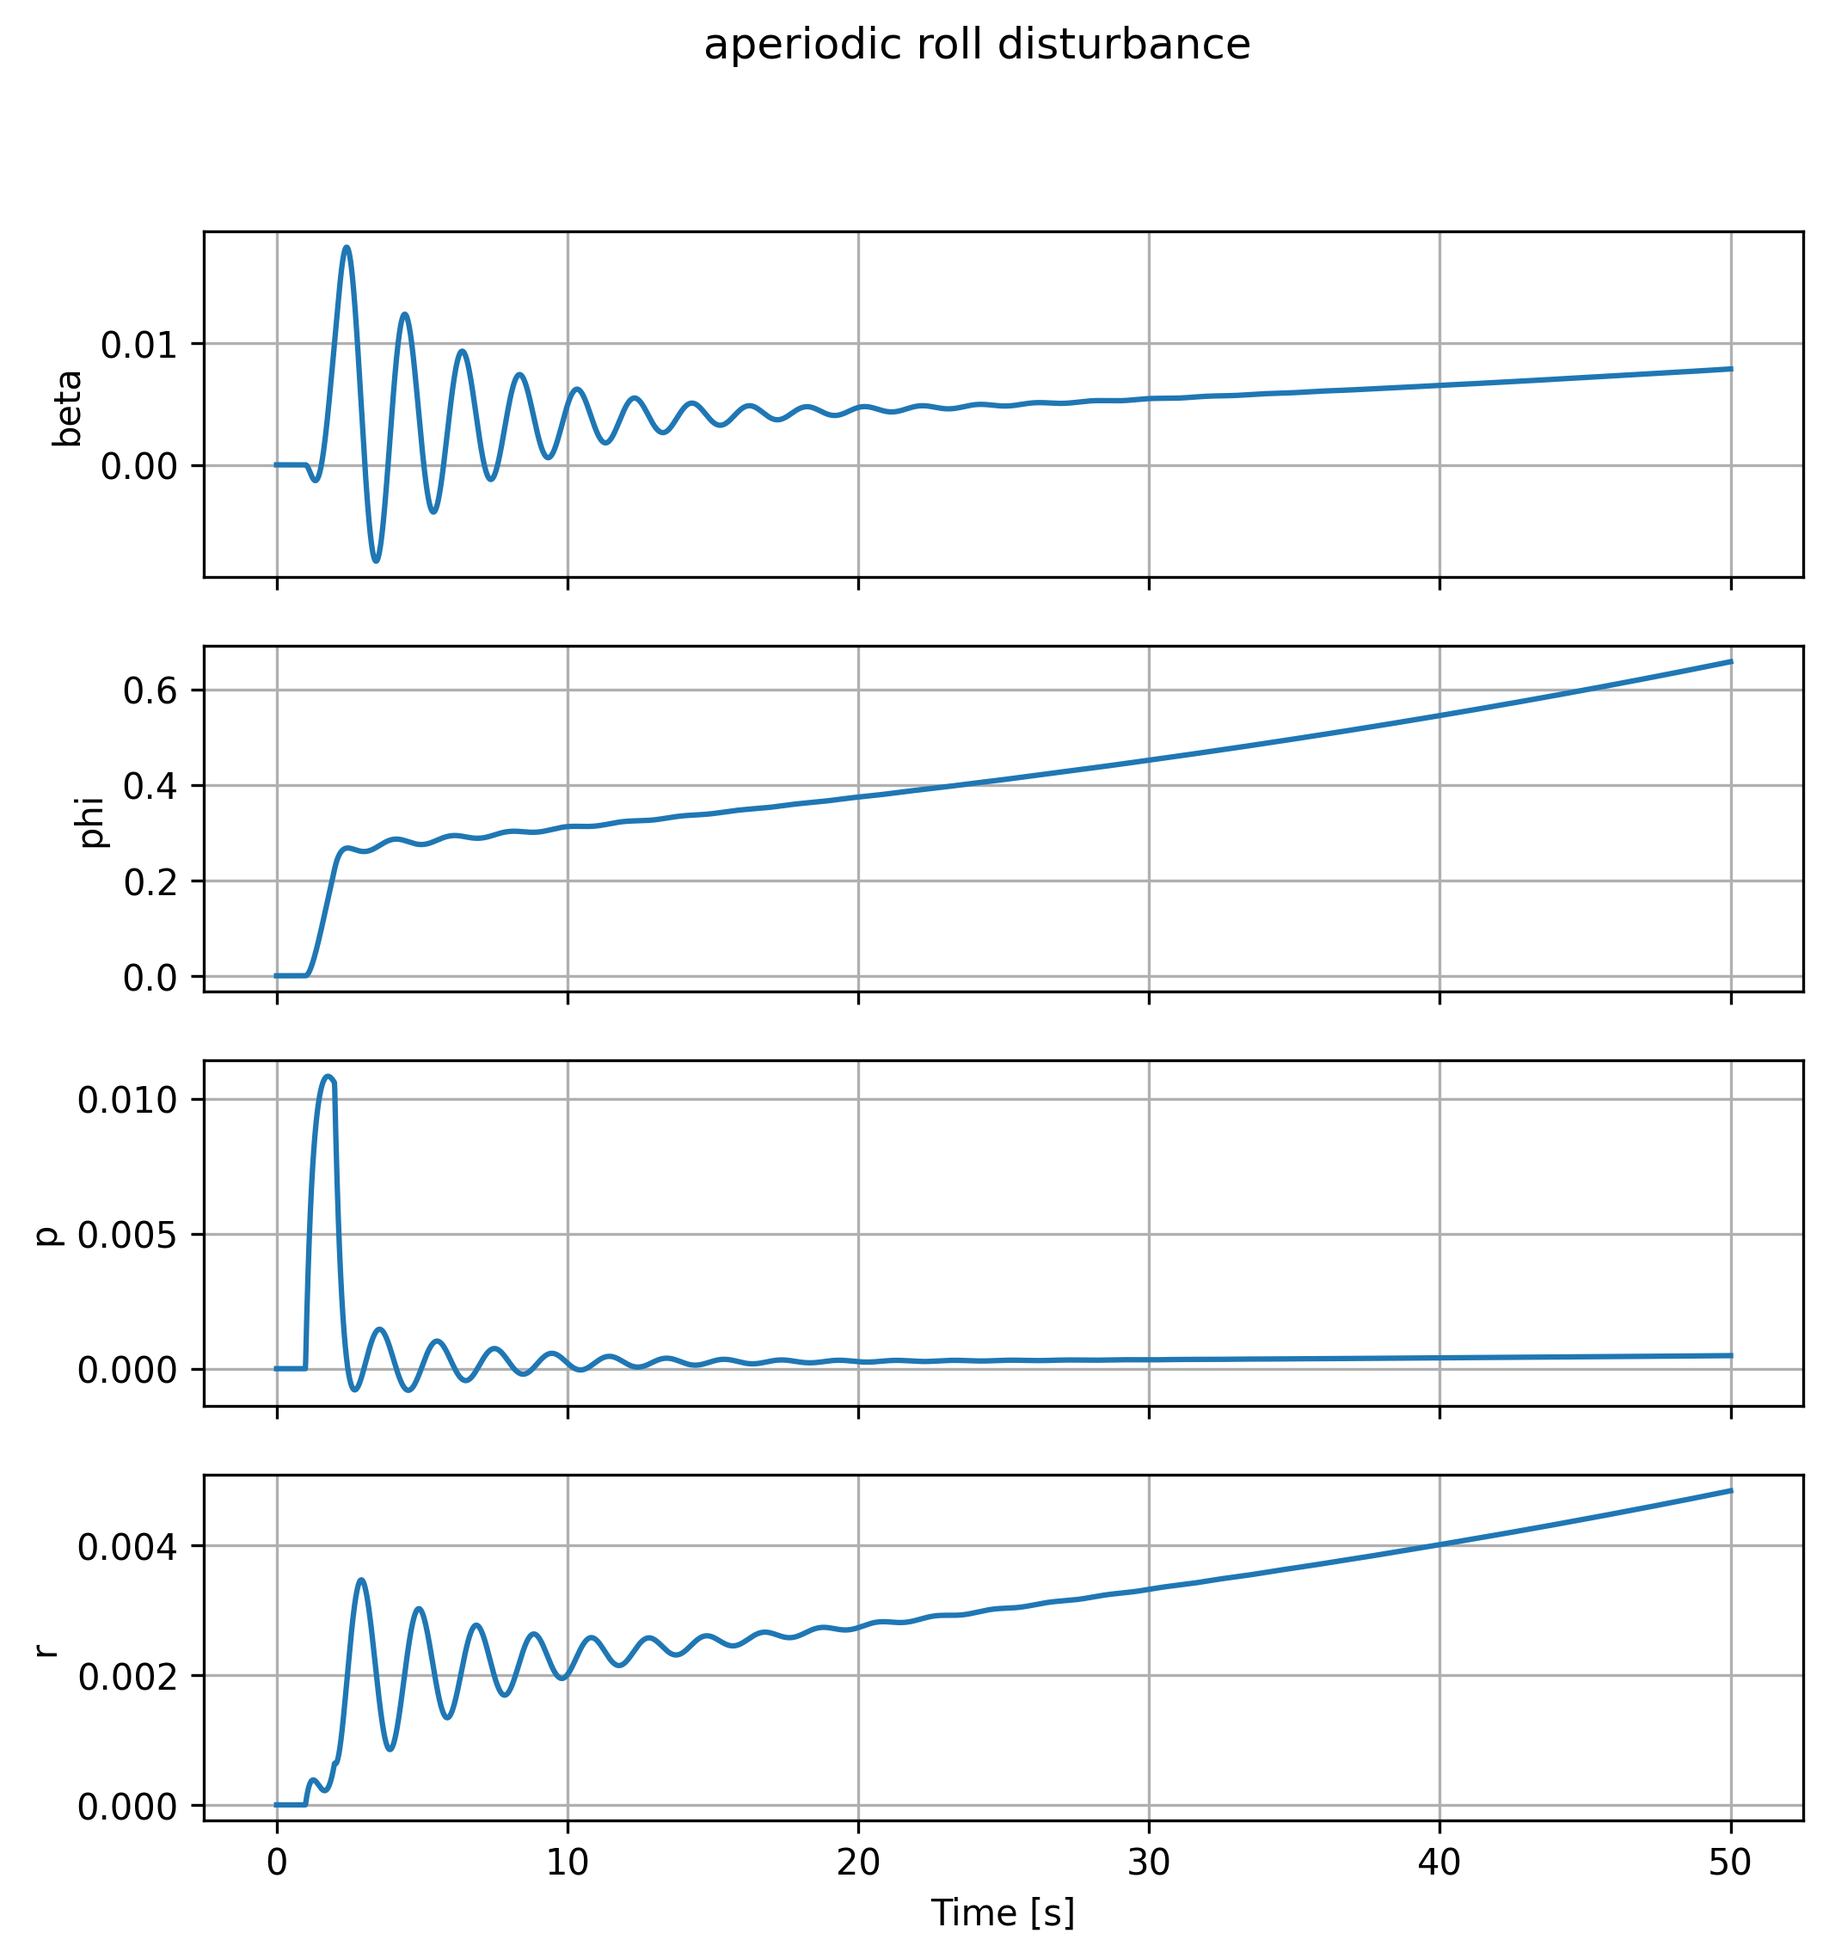
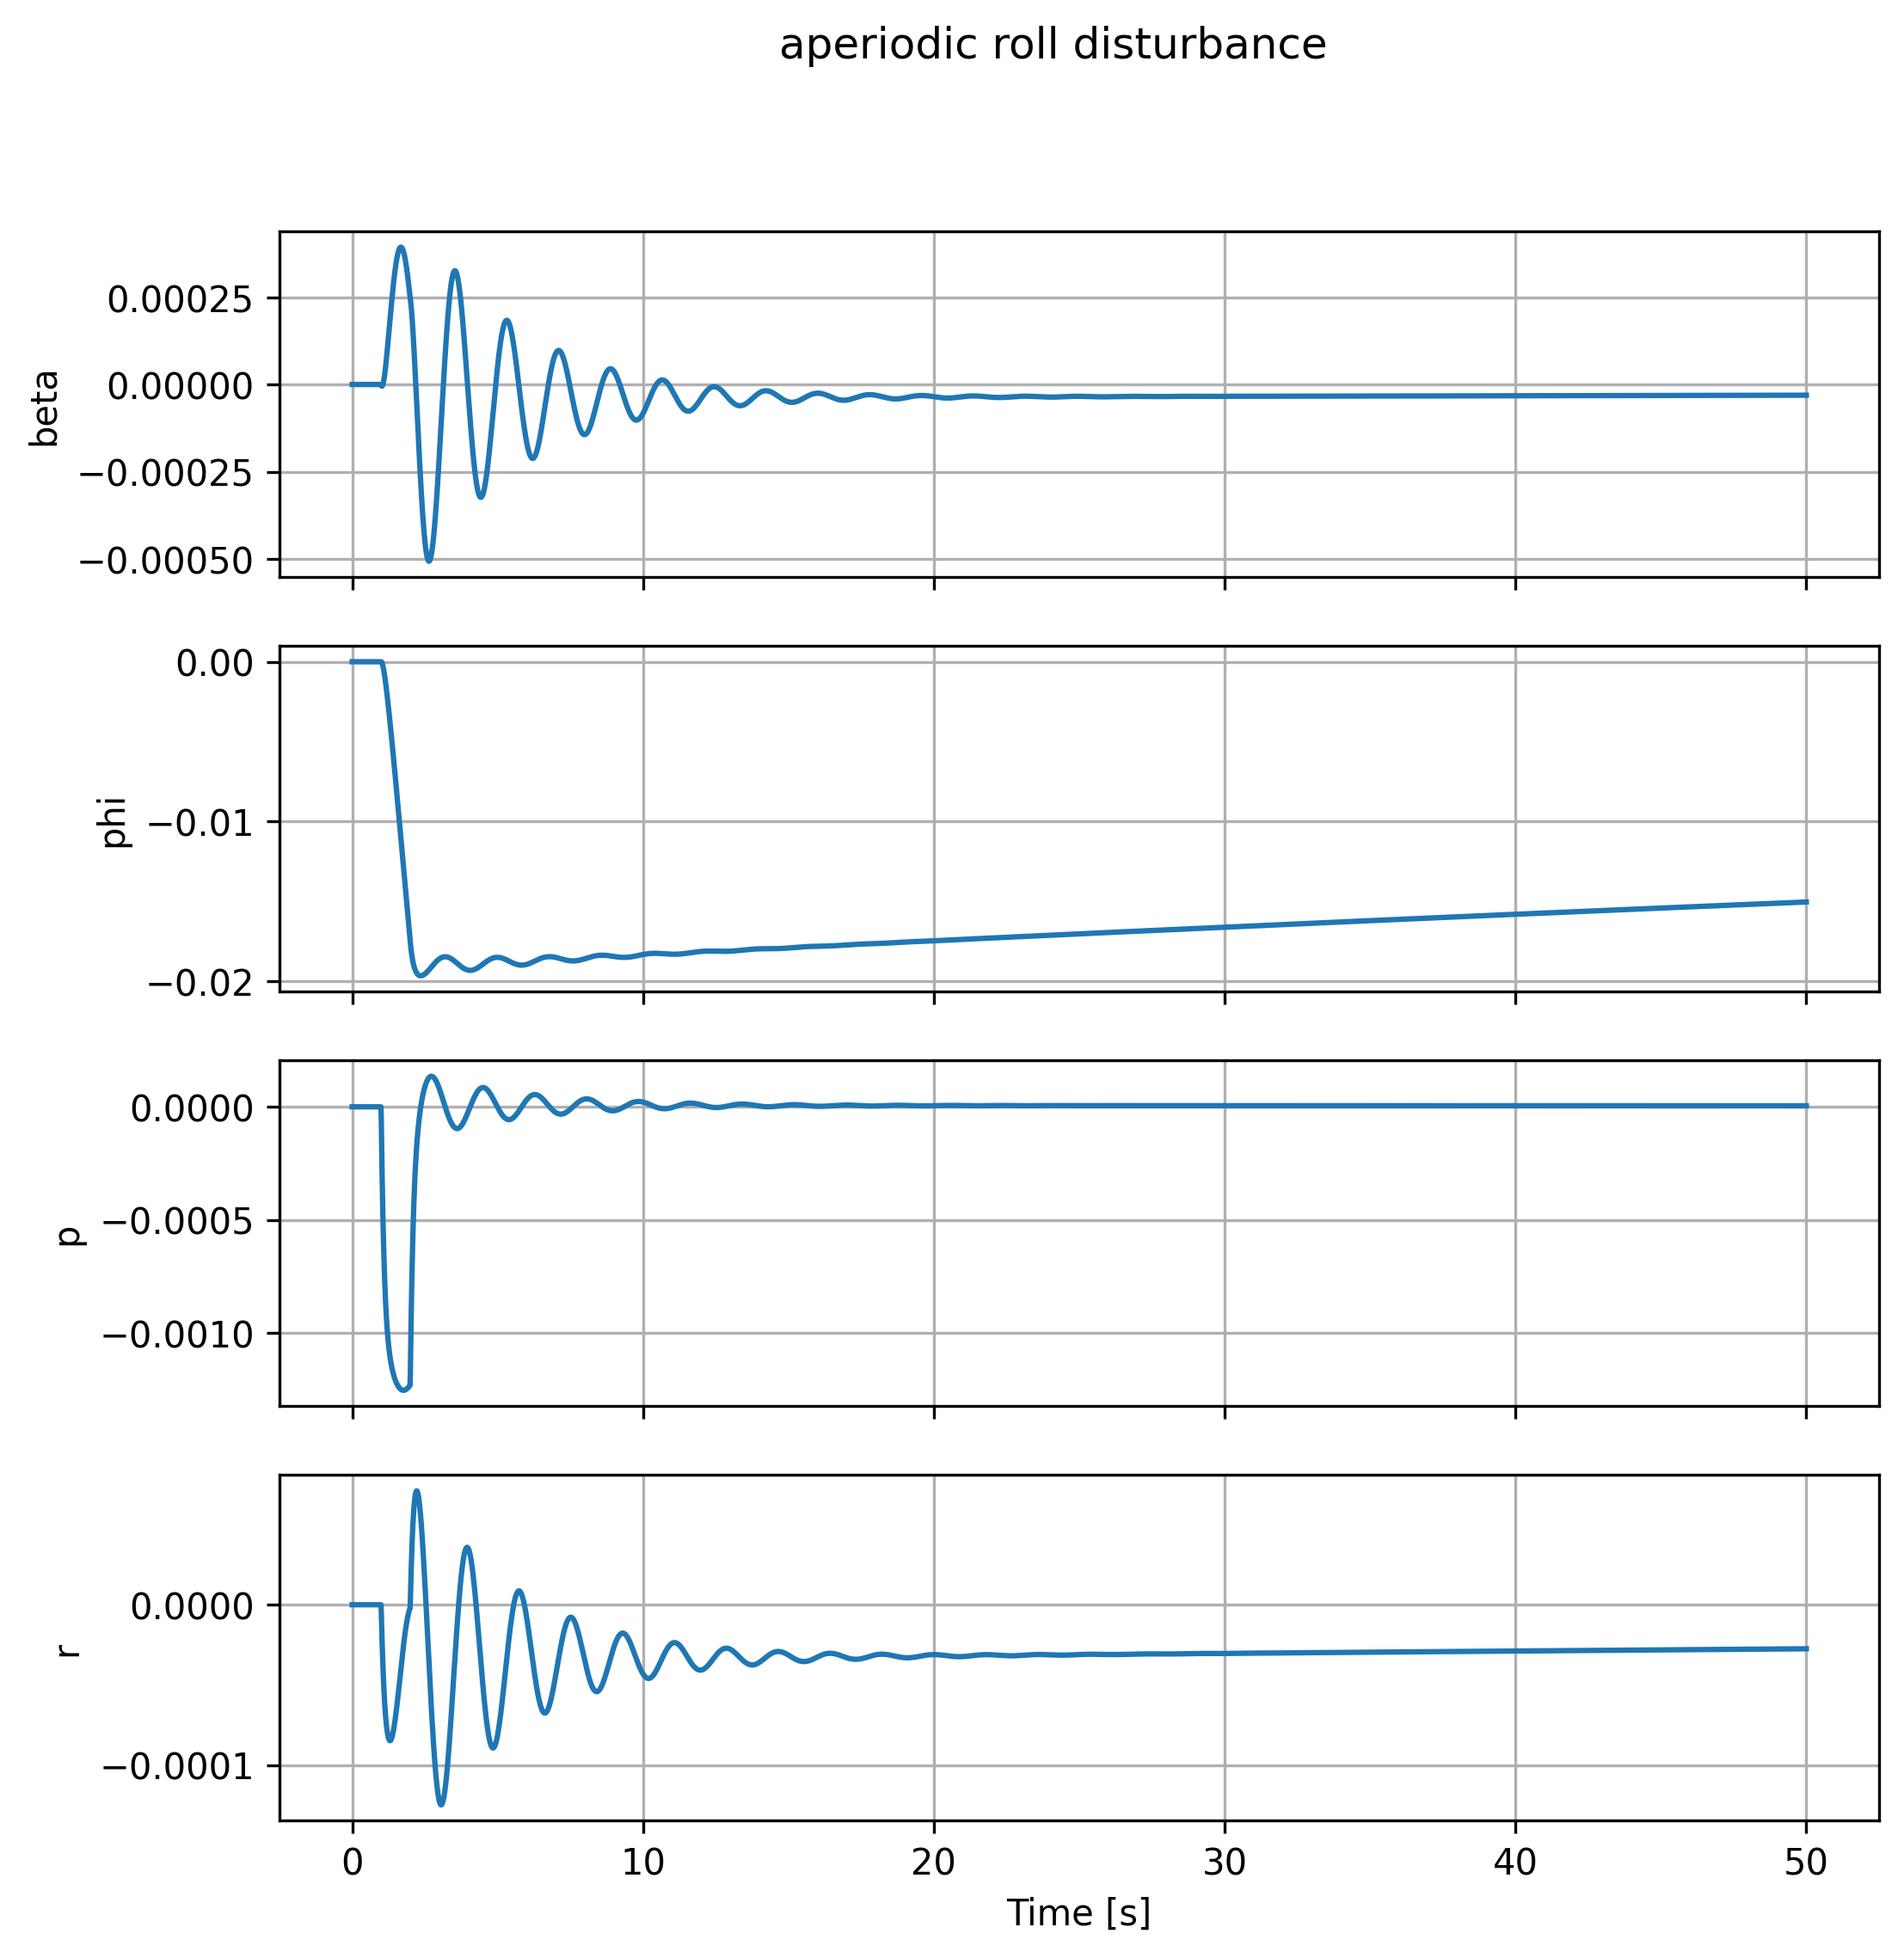
initial stability analysis

diff --git a/c&s/derivatives_parameters.py b/c&s/derivatives_parameters.py
@@ -14,15 +14,15 @@ target_class = Aircraft
 aircraft = loader.load(file_path, target_class)
 
 
-Ixx = 1609.57013  # kg*m2
-Iyy = 8767.774  # kg*m2
-Izz = 8643.30418  # kg*m2
-Ixy = 0  # kg*m2
-Iyz = 0  # kg*m2
-Ixz = 186.6324083  # kg*m2
+Ixx = 10262.381  # kg*m2
+Iyy = 5087.016 # kg*m2
+Izz = 13691.332  # kg*m2
+Ixy = 0.093  # kg*m2
+Iyz = 0.231  # kg*m2
+Ixz = 429.382  # kg*m2
 
 #calculate_aircraft_parameters(1870, 8500, rho[0], 132, 25.65, Ixx, Iyy, Izz, Ixz)
-mtom = 1870 #[kg]
+mtom = 1849.597 #[kg]
 h_cruise = 8500 #[ft]
 V_cruise = 132 #[knots]
 S = 31.4 #m2
@@ -33,7 +33,7 @@ rho = atmos_model.density
 hp0 = h_cruise * FT_TO_M  # Pressure altitude in the stationary flight condition [m]
 V0 = V_cruise * KTS_TO_MS # True airspeed in the stationary flight condition [m/sec]
 C_L_1 = mtom * g * 2 / (rho * V_cruise ** 2 * S)
-alpha0 = 0.965 * np.pi / 180 # Angle of attack in the stationary flight condition [rad]
+alpha0 = 1.5 * np.pi / 180 # Angle of attack in the stationary flight condition [rad]
 th0 = 0  # Pitch angle in the stationary flight condition [rad]
 
 # Aircraft mass
@@ -42,10 +42,10 @@ m = mtom  # Mass [kg]
 # Aerodynamic properties
 e = 0.783  # Oswald factor [ ]
 CD0 = 0.02591  # Zero-lift drag coefficient [ ]
-CLa = 5.76  # Slope of C_L-alpha curve [ ]
+CLa = 5.27  # Slope of C_L-alpha curve [ ]
 
 # Longitudinal stability
-Cma = -1.87  # Longitudinal stability [ ]
+Cma = -1.01  # Longitudinal stability [ ]
 Cmde = 3.646  # Elevator effectiveness [ ]
 
 # Aircraft geometry
@@ -56,7 +56,7 @@ lh = 4.96  # Tail length [m]
 c = 1.87 # Mean aerodynamic cord [m]
 lh_c = lh / c  # [ ]
 b = 16.8  # Wing span [m]
-bh = 4.85  # Stabiliser span [m]
+bh = 6.34  # Stabiliser span [m]
 A = b ** 2 / S  # Wing aspect ratio [ ]
 Ah = bh ** 2 / Sh  # Stabiliser aspect ratio [ ]
 # Vh_V = 1  # [ ]
@@ -84,45 +84,45 @@ CD = CD0 + (CLa * alpha0) ** 2 / (np.pi * A * e)  # Drag coefficient [ ]
 
 # Stability derivatives
 
-CX0 = mtom * np.sin(th0) / (0.5 * rho * V0 ** 2 * S)
-CXu = 0.017142
-CXa = 0.04387  # Positive, see FD lecture notes
+CX0 = 0.0037308 #mtom * np.sin(th0) / (0.5 * rho * V0 ** 2 * S)
+CXu = -0.0000572
+CXa = -0.261455  # Positive, see FD lecture notes
 CXadot = 0
-CXq = -9.81
+CXq = -0.455
 CXde = -0.0086
 
-CZ0 = - mtom * np.cos(th0) / (0.5 * rho * V0 ** 2 * S)
-CZu = 0
-CZa = -CLa
+CZ0 = 0.00048#- mtom * np.cos(th0) / (0.5 * rho * V0 ** 2 * S)
+CZu = 0.00408
+CZa = 0.002822
 CZadot = 0 #-2 * 0.116 * np.pi / 180 * lh * Sh_S * depsda
-CZq = -11.222 #small angle assumption -CLq = CZq
+CZq =0.00344 #small angle assumption -CLq = CZq
 CZde = -1.16
 
-Cm0 = +0.0297  # wrong but doesnt matter
-Cmu = 0.0073
+Cm0 = -0.01007  # wrong but doesnt matter
+Cmu = 0.00408
 Cmadot = 0 
-Cmq = -25.426
+Cmq = -16.857
 # CmTc = -0.0064 #dont know dont need?
 #
-CYb = 0.19133 
+CYb = 0.0715
 CYbdot = 0 #assumed zero
-CYp = -0.000609 
-CYr = -0.1547 
-CYda = -0.0400  # dont know
-CYdr = +0.2300  # dont know
+CYp = 0.0094
+CYr = -0.0093
+CYda = 0.0165  # dont know
+CYdr = -0.0046  # dont know
 #
-Clb = -0.023067 
-Clp = -0.53728  
-Clr = 0.053059  
-Clda = -0.23088  # dont know
-Cldr = +0.03440  # dont know
+Clb = -0.188
+Clp = -0.6199 
+Clr = 0.1058
+Clda = 0.02015  # dont know
+Cldr = -0.159  # dont know
 #
-Cnb = 0.065995
+Cnb = 0.06509
 Cnbdot = 0
-Cnp = -0.017503
-Cnr = -0.056
-Cnda = -0.0120  # dont know
-Cndr = -0.0939  # dont know
+Cnp = -0.02269
+Cnr = -0.0771
+Cnda = 0.00118  # dont know
+Cndr = -0.0453  # dont know
 
 
 # if __name__=="__main__":

diff --git a/c&s/eigenmotion_analysis.py b/c&s/eigenmotion_analysis.py
@@ -206,5 +206,10 @@ for title, x0 in state_disturbances_sym.items():
 for title,x0 in state_disturbances_asym.items():
     plot_response(sys_asym, x0,["beta","phi","p","r"], t_final=200, title=title )
 
-# E = CL*(Clb*Cnr-Cnb*Clr)
-# print(E)
+E = CL*(Clb*Cnr-Cnb*Clr)
+print(E)
+polynomial = np.poly(A_Asym)
+A,B,C,D,E = polynomial
+R = B*C*D - A*D**2 - B**2*E
+
+print(R)

diff --git a/c&s/matrices.py b/c&s/matrices.py
@@ -1,7 +1,7 @@
 import numpy as np
 import control as ctr
 #from derivatives_parameters import *
-from test_params import *
+from derivatives_parameters import *
 
 
 
